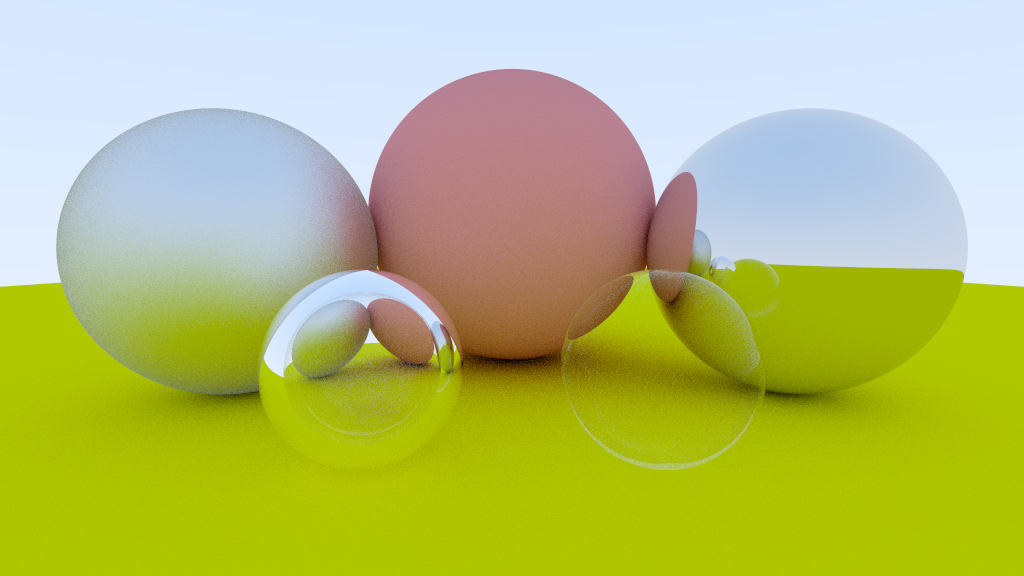
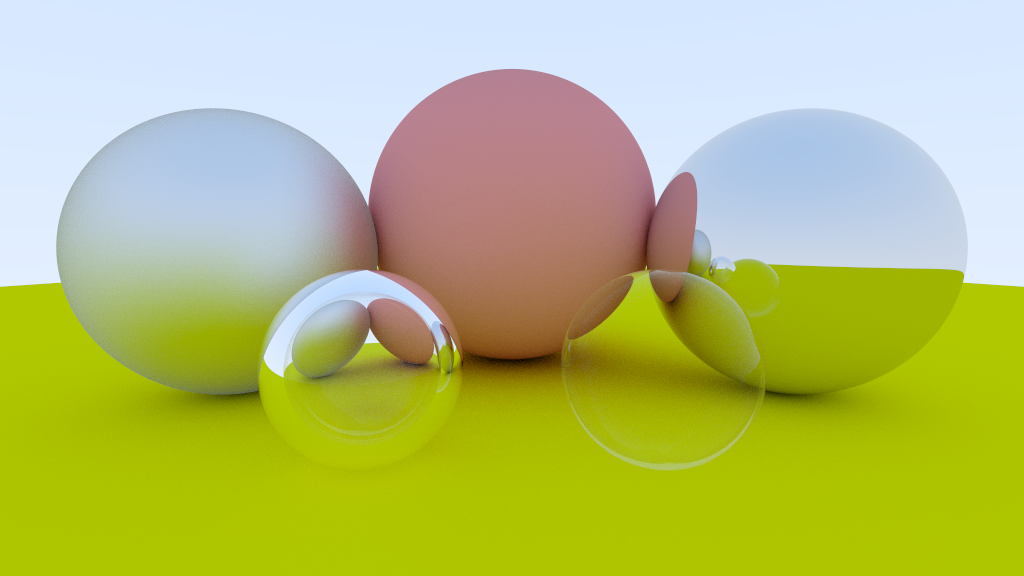
Increase antialias samples for spheres example

diff --git a/tests/examples.rs b/tests/examples.rs
@@ -14,7 +14,7 @@ mod examples
         {
             image_width: 1024,
             image_height: 576,
-            antialias_samples: 8,
+            antialias_samples: 16,
             scatter_limit: 16,
             ..render::Parameters::default()
         };
